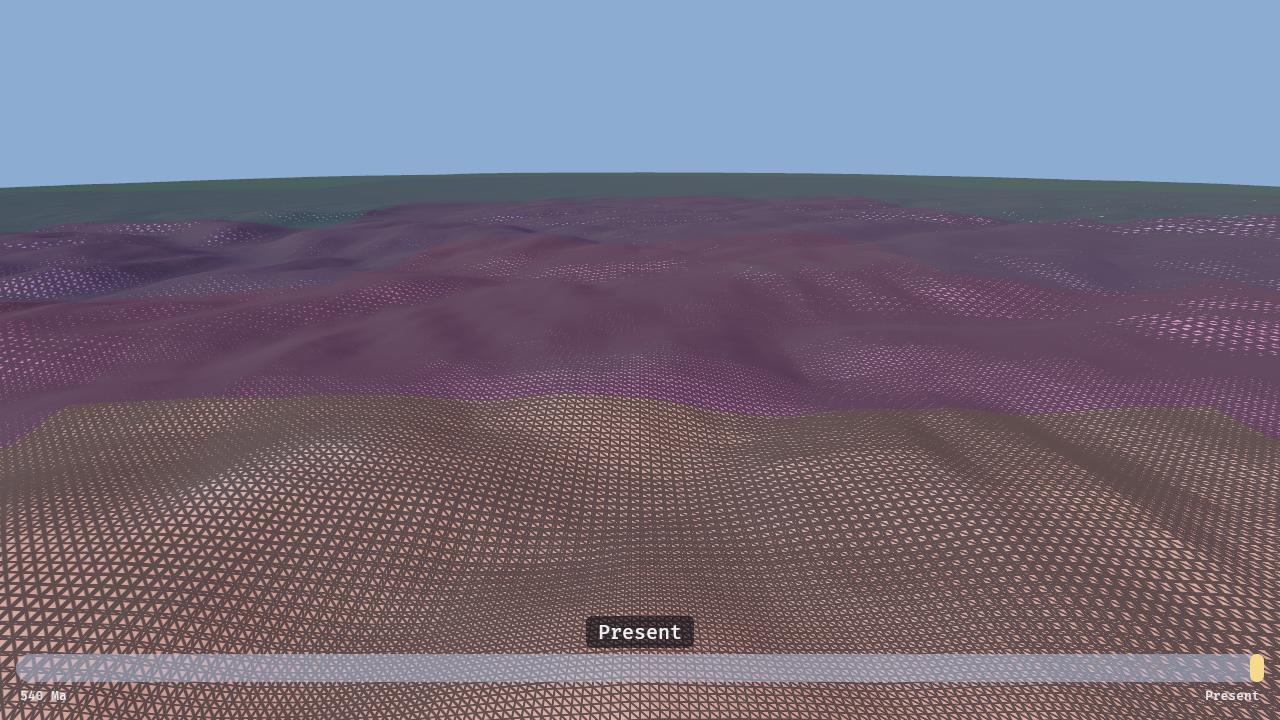
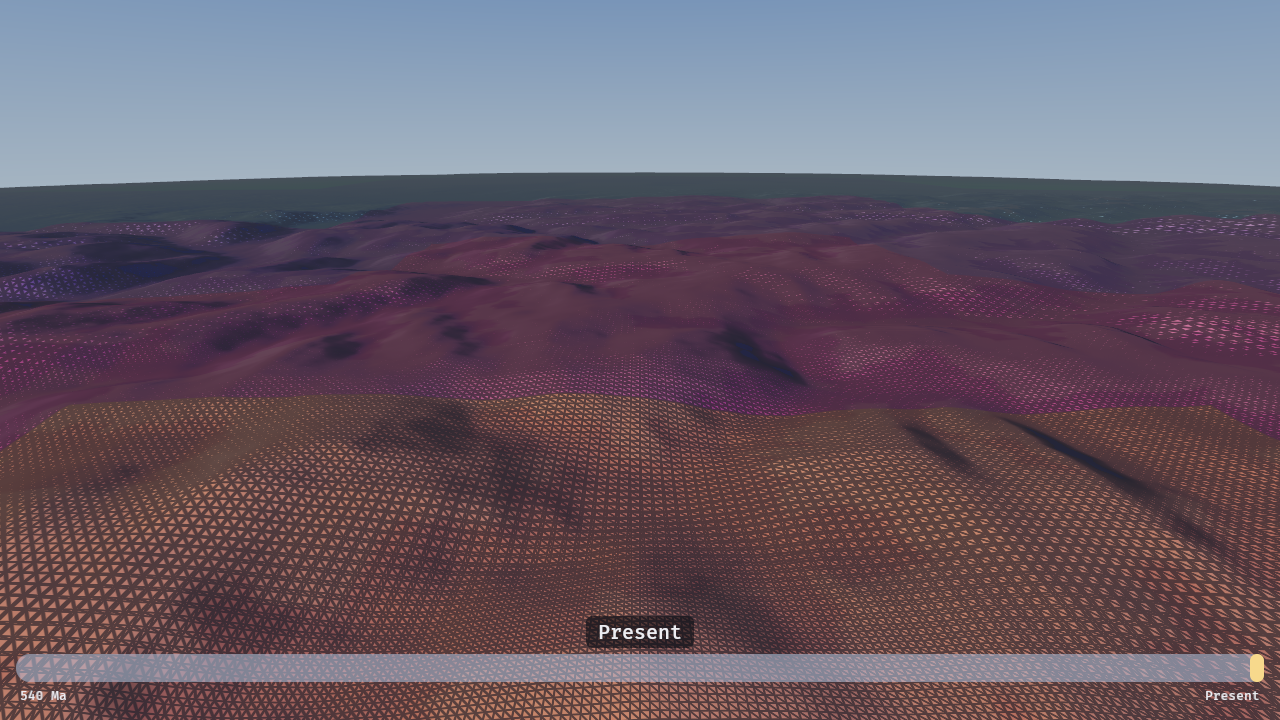
Add the region look screenshots and the shot script
tools/dev/region-shots.sh renders the three bench regions (Alps 0 ka, Scandinavia 21 ka,
Pangaea interior -22,-18 at 250 Ma), one region per vegetation era (540, 400, 300, 100 and
10 Ma; 250 Ma is the Pangaea shot) and the present-day Sahara through region_tour, which gains
a shaded-only mode. The CDLOD shots are re-rendered with the painted look.

Changed region(s): [[0.0, 0.275, 1.0, 1.0], [0.2188, 0.0, 0.7812, 0.0306]]

diff --git a/crates/timefly/examples/region_tour.rs b/crates/timefly/examples/region_tour.rs
@@ -6,11 +6,15 @@
 //! what gets saved: window-surface screenshots of a process started from an agent's shell come
 //! back blank on macOS. The window itself stays empty while the tour runs.
 //!
-//! `cargo run -p timefly --example region_tour -- <out_dir> [WxH] [LAT,LON,AGE_YEARS] [prefix]`
-//! (run through cargo, or set `BEVY_ASSET_ROOT=crates/timefly`, so the assets are found). The
-//! region defaults to the Alps at the present (`46.5,10,0`) and the prefix to `cdlod`, giving
-//! `<prefix>-shaded.png` and `<prefix>-wire.png`. Exits with an error if the region never
-//! appears. Set a fresh `TIMEFLY_LOG_DIR` per run.
+//! `cargo run -p timefly --example region_tour -- <out_dir> [WxH] [LAT,LON,AGE_YEARS] [prefix]
+//! [shaded]` (run through cargo, or set `BEVY_ASSET_ROOT=crates/timefly`, so the assets are
+//! found). The region defaults to the Alps at the present (`46.5,10,0`) and the prefix to
+//! `cdlod`, giving `<prefix>-shaded.png` and `<prefix>-wire.png`; a fifth argument `shaded`
+//! skips the wireframe shot. Exits with an error if the region never appears. Set a fresh
+//! `TIMEFLY_LOG_DIR` per run.
+//!
+//! `tools/dev/region-shots.sh` runs it over the Task 8 set (the bench regions and one region
+//! per vegetation era).
 
 use std::path::PathBuf;
 
@@ -48,6 +52,7 @@ struct Tour {
     prefix: String,
     size: (u32, u32),
     target: Option<Handle<Image>>,
+    wire: bool,
     step: Step,
     since: f32,
     frames: u32,
@@ -128,7 +133,10 @@ fn tour(
             }
         }
         Step::Shaded => {
-            if tour.frames >= WIRE_FRAMES {
+            if !tour.wire && tour.frames >= WIRE_FRAMES {
+                tour.step = Step::Done;
+                tour.frames = 0;
+            } else if tour.frames >= WIRE_FRAMES {
                 // The real toggle: press F2 for one frame.
                 keys.press(WIREFRAME_KEY);
                 tour.step = Step::Wire;
@@ -167,6 +175,7 @@ fn main() -> AppExit {
         return AppExit::error();
     };
     let prefix = args.get(3).cloned().unwrap_or_else(|| "cdlod".to_string());
+    let wire = args.get(4).map(String::as_str) != Some("shaded");
     if let Err(e) = std::fs::create_dir_all(&out) {
         eprintln!("cannot create {}: {e}", out.display());
         return AppExit::error();
@@ -182,6 +191,7 @@ fn main() -> AppExit {
         prefix,
         size,
         target: None,
+        wire,
         step: Step::WaitRegion,
         since: 0.0,
         frames: 0,
